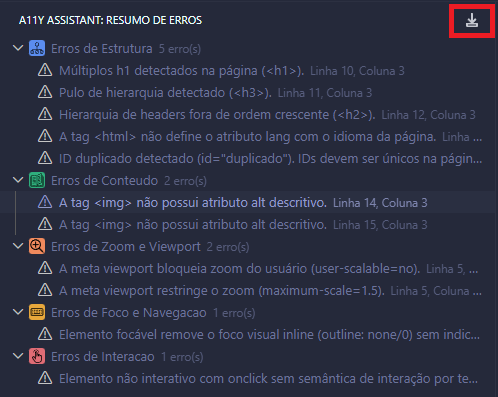
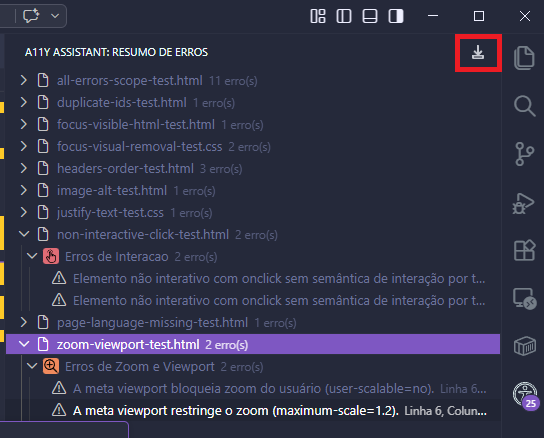
corrigindo readme de acordo com a nova funcionalidade de varredura do projeto

diff --git a/README.md b/README.md
@@ -4,12 +4,13 @@ Extensão para análise proativa de acessibilidade em arquivos HTML e CSS no VS 
 
 ## Visão Geral
 
-O motor da extensão funciona sobre o documento ativo e aplica um conjunto de regras educacionais de acessibilidade. Quando encontra um problema, a extensão destaca o trecho no arquivo, mostra uma explicação simples e associa a ocorrência a uma referência WCAG 2.2.
+O motor da extensão funciona sobre todos os arquivos HTML e CSS encontrados no workspace e aplica um conjunto de regras educacionais de acessibilidade. Quando encontra um problema, a extensão destaca o trecho no arquivo, mostra uma explicação simples e associa a ocorrência a uma referência WCAG 2.2.
 
 Principais capacidades:
 
 - Validação automática enquanto você digita em arquivos HTML e CSS.
-- Painel lateral com resumo categorizado dos problemas.
+- Varredura inicial do workspace para listar erros de todos os arquivos compatíveis.
+- Painel lateral com hierarquia por arquivo, categoria e erro.
 - Navegação direta do painel para o ponto exato do código.
 - Exportação do resumo para um arquivo HTML em Downloads.
 
@@ -38,20 +39,20 @@ Principais capacidades:
 
 ## Como Usar
 
-1. Abra um arquivo HTML ou CSS no editor.
-2. Faça alterações no conteúdo.
-3. A extensão revalida o documento automaticamente com pequeno atraso para evitar excesso de processamento.
+1. Abra um workspace com arquivos HTML ou CSS.
+2. A extensão faz uma varredura inicial e monta o painel por arquivo.
+3. Faça alterações em qualquer arquivo compatível para revalidar automaticamente o documento alterado.
 4. Os alertas aparecem no editor e também na lista de problemas do VS Code.
-5. Clique no ícone `A11y Assistant` na barra lateral para ver o resumo de erros.
-6. Selecione um item do painel para ir direto ao trecho problemático.
-7. Use o comando de exportação para gerar o relatório HTML na pasta Downloads.
+5. Clique no ícone `A11y Assistant` na barra lateral para ver os arquivos com erros.
+6. Expanda um arquivo para ver as categorias e depois os erros individuais.
+7. Use o comando de exportação para gerar o relatório HTML da aba atual na pasta Downloads.
 
 ## Painel de Resumo e Exportação
 
 O painel lateral `Resumo de Erros` fica dentro da visão `A11y Assistant` na Activity Bar.
 
-- O número total de erros ativos aparece no cabeçalho do painel.
-- Os problemas são agrupados por categoria para facilitar leitura e priorização.
+- O número total de erros encontrados no workspace aparece no cabeçalho do painel.
+- Os problemas são agrupados por arquivo, depois por categoria, para facilitar leitura e priorização.
 - Cada item do painel mostra linha, coluna e um texto resumido do alerta.
 - Ao clicar em um item, o editor é aberto na posição correspondente do erro.
 
